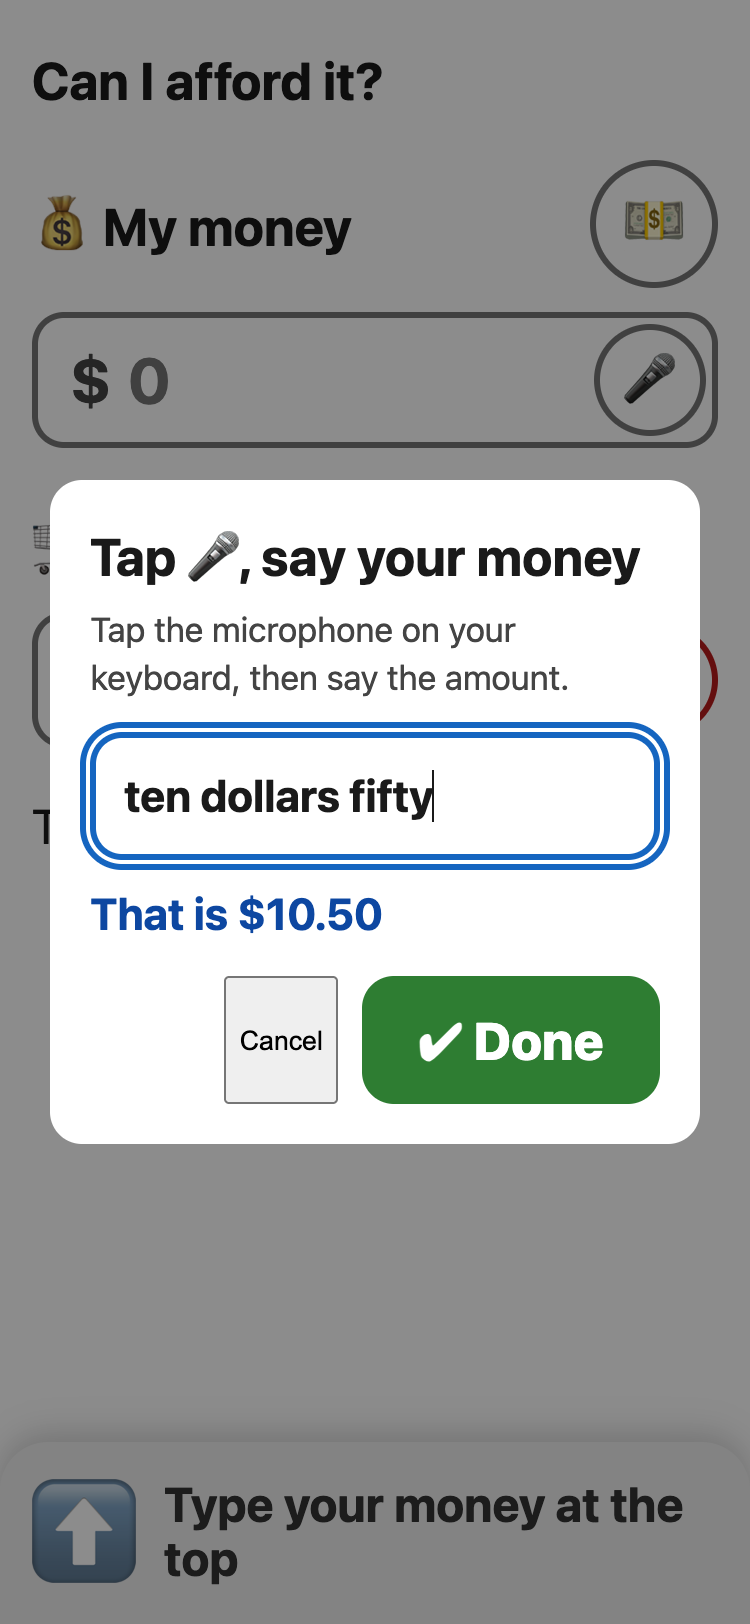
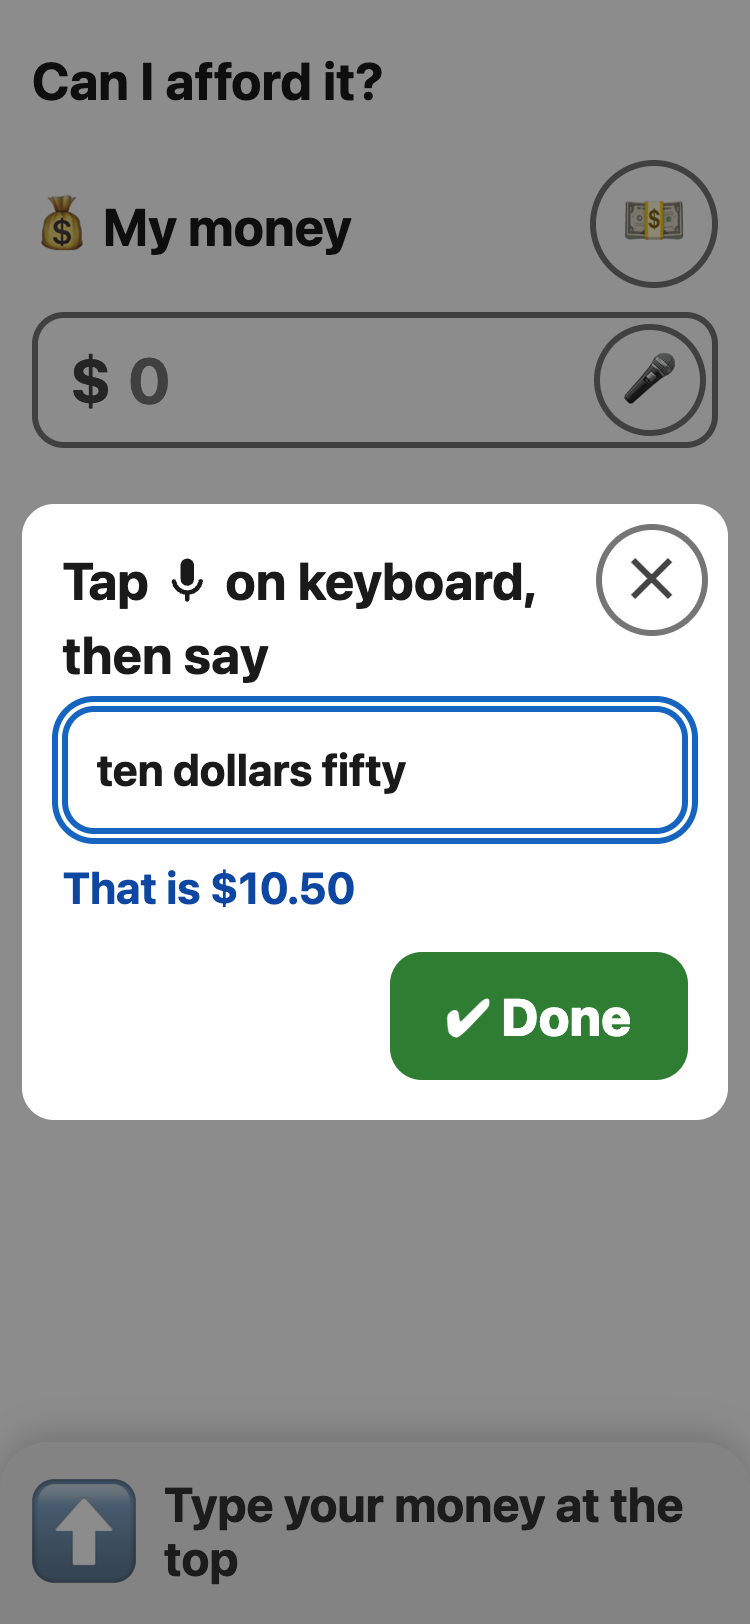
docs: refresh the stale speak-dialog guide screenshot
screen-speak.png still showed the dialog as it looked before 8ed95ca: the
old "Tap 🎤, say your money" title, the hint line that has since been
dropped, and a Cancel button that no longer exists. Anyone following the
guide was looking at buttons the app does not have.

Capture it from the running app instead of by hand, via tools/shoot-guide.mjs,
so a regenerated shot cannot disagree with the shipped markup. The script
serves public/ and drives headless Chrome over CDP — Node 22 and Chrome, no
install — and aborts without writing if the app did not reach the state being
photographed, so a silent setup failure cannot land a wrong picture.

Two details worth keeping: focus emulation, or :focus never matches and the
money box loses the ring a real user sees while the keyboard is up; and a
throwaway Chrome profile, so no service worker from an earlier run can serve
the stale HTML this commit exists to fix.

The alt text already described the new dialog and needed no change.

Changed region(s): [[0.0307, 0.2771, 0.9813, 0.7081], [0.3067, 0.6158, 0.4293, 0.6466]]

diff --git a/public/sw.js b/public/sw.js
@@ -2,7 +2,7 @@
 // launch picks up new files; firebase.json serves this file with no-cache.
 // "/guide" (not "/guide.html"): Hosting cleanUrls 301s the .html form, and a
 // cached redirected response breaks offline navigations.
-const CACHE = "afford-v25";
+const CACHE = "afford-v26";
 const ASSETS = [
   "/",
   "/index.html",

diff --git a/README.md b/README.md
@@ -24,6 +24,18 @@ home screen on iPhone and Android. Its screenshots are in
 `public/img/guide/`; both the page and images are precached by the service
 worker so the guide works offline too.
 
+Those screenshots are the one part of the docs no code review catches when it
+goes stale, so `screen-speak.png` is captured from the running app rather than
+by hand. Re-run it after any change to the speak dialog:
+
+```sh
+node tools/shoot-guide.mjs speak
+```
+
+It needs only Node 22 and Chrome — it serves `public/` and drives a headless
+Chrome over the DevTools Protocol, and refuses to write the file if the app
+didn't reach the state being photographed.
+
 No framework, no build step, no account, no analytics — nothing leaves the
 device. Works offline once installed (PWA).
 
